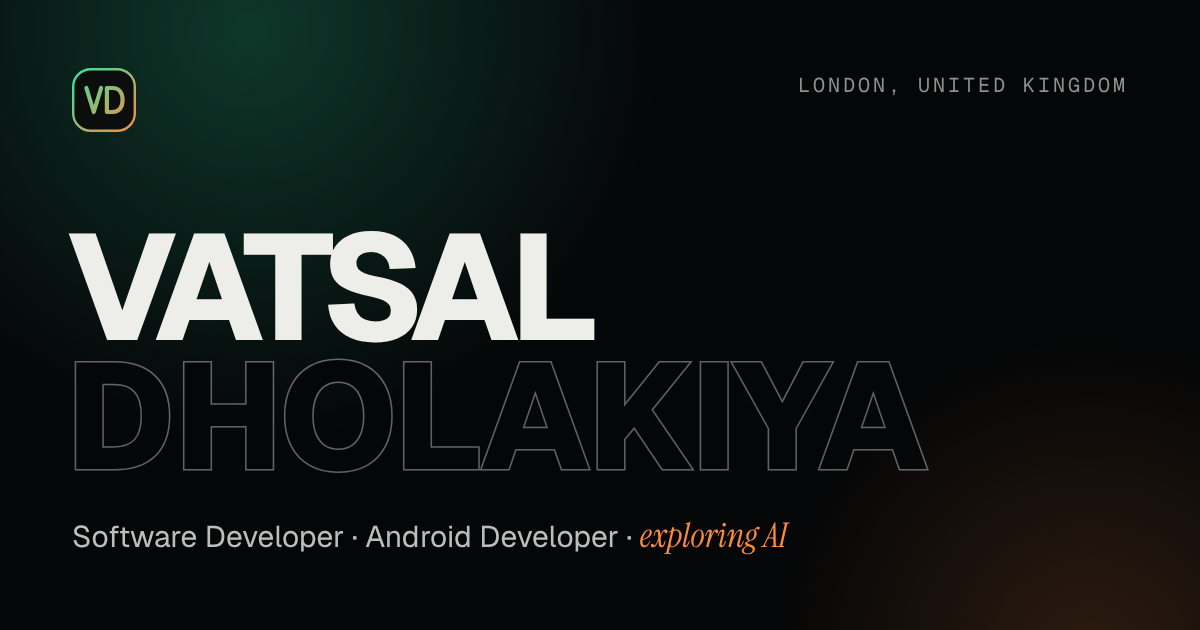
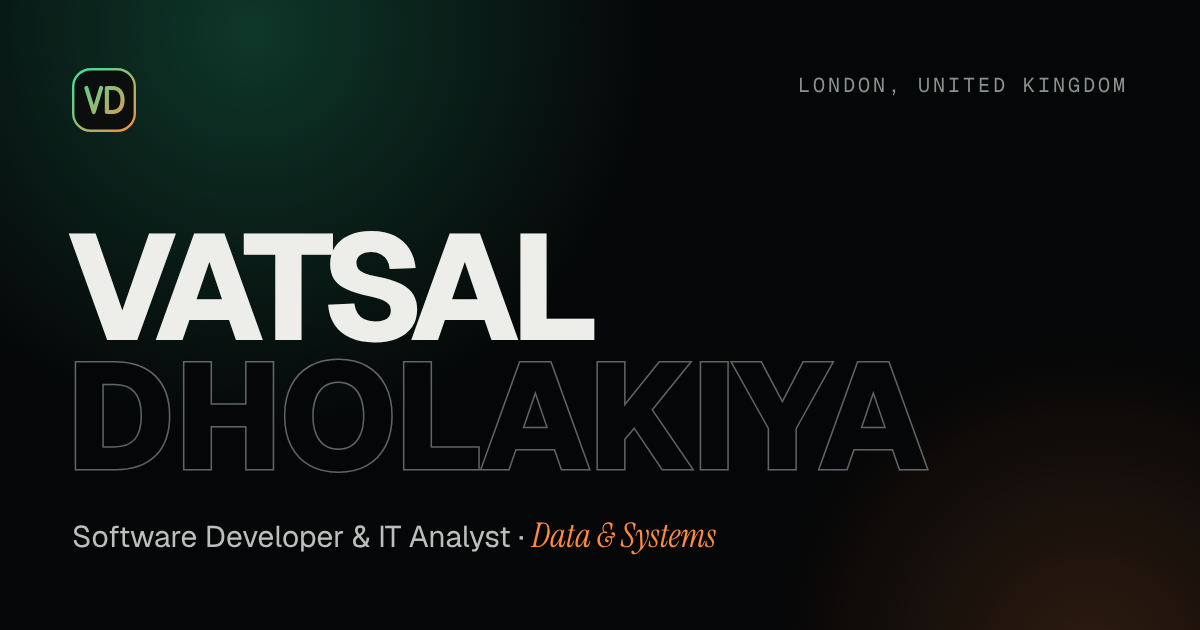
Match experience, titles and WhatsApp project figures to the latest CV
Claude-Session: https://claude.ai/code/session_01LKi39pbMocCTRNa2FPTGCk

Changed region(s): [[0.2775, 0.8143, 0.6475, 0.8746]]

diff --git a/src/data/content.ts b/src/data/content.ts
@@ -42,7 +42,9 @@ export interface Chapter {
   year: string
   title: string
   place: string
-  text: string
+  text?: string
+  /** Bullet points, shown under the text */
+  points?: string[]
   /** Optional highlighted badge, e.g. 'Distinction' */
   badge?: string
 }
@@ -110,11 +112,11 @@ export const site = {
   /** FILL IN: your live domain without a trailing slash, e.g. 'https://vatsaldholakiya.com'.
    *  Used for the canonical URL, social previews and sitemap.xml. Leave '' until you have one. */
   url: 'https://www.vatsaldholakiya.com',
-  title: 'Vatsal Dholakiya — Software Developer & Android Developer',
+  title: 'Vatsal Dholakiya — Software Developer & IT Analyst | Data & Systems',
   description:
-    'Vatsal Dholakiya is a London-based Software Developer and Android Developer who builds software that does real work, and is currently exploring Artificial Intelligence.',
+    'Vatsal Dholakiya is a London-based Software Developer and IT Analyst working across data and systems, with an MSc in Cloud Computing (Distinction).',
   ogImage: '/og-image.png',
-  ogImageAlt: 'Vatsal Dholakiya, Software Developer and Android Developer',
+  ogImageAlt: 'Vatsal Dholakiya, Software Developer and IT Analyst',
   locale: 'en_GB',
 }
 
@@ -124,8 +126,8 @@ export const person = {
   firstName: 'Vatsal',
   lastName: 'Dholakiya',
   initials: 'VD',
-  jobTitle: 'Software Developer',
-  roleLine: 'Software Developer · Android Developer · Exploring AI',
+  jobTitle: 'Software Developer & IT Analyst',
+  roleLine: 'Software Developer · IT Analyst · Data & Systems',
   location: 'London, United Kingdom',
   timeZone: 'Europe/London',
   links: {
@@ -188,7 +190,7 @@ export const films: Record<'orbit' | 'developer' | 'nextChapter', Film> = {
 /* ------------------------------------------------------------------ Hero */
 
 export const hero = {
-  kicker: 'Software Developer · Android Developer · London',
+  kicker: 'Software Developer & IT Analyst · Data & Systems',
   line: "I build software and Android apps that do real work — and I'm learning AI to build what comes next.",
   primaryCta: 'See my work',
   availability: 'Open to opportunities',
@@ -209,7 +211,7 @@ export const build = {
   /** Text inside the pieces dragged onto the screen */
   pieces: {
     button: 'Ship it',
-    stat: { value: '10,000+', label: 'Messages a day' },
+    stat: { value: '500+', label: 'Messages a day' },
     skills: ['Java', 'Android', 'SQL', 'Git'],
     chat: { title: 'AI · Learning', question: 'What should I learn next?', answer: 'Generative AI, step by step.' },
     appTitle: 'Orders',
@@ -222,8 +224,8 @@ export const build = {
 export const stats = {
   label: 'In numbers',
   items: [
-    { value: 4, suffix: '+', label: 'Years building software' },
-    { value: 10000, suffix: '+', label: 'WhatsApp messages sent a day by my automation tool' },
+    { value: 5, suffix: '+', label: 'Years building software' },
+    { value: 500, suffix: '+', label: 'WhatsApp messages a day handled by my automation tool' },
     { value: 5, label: 'Professional certifications' },
     { value: 563, label: 'Stack Overflow reputation', live: 'stackoverflow-reputation' },
     /** FILL IN: number of Android apps you shipped to Google Play — hidden while value is undefined */
@@ -239,8 +241,8 @@ export const about = {
   /** Words rendered in the serif italic accent */
   accentWords: ['busywork'],
   paragraphs: [
-    "I'm a Software Developer and Android Developer based in London. I built a WhatsApp automation tool that now sends more than 10,000 messages a day, and at CodeCreator Technologies I built PostFactory, a business card design app for Android.",
-    'I hold an MSc in Cloud Computing with Distinction from the University of East London. I care about clean code, clear communication and software that keeps working long after handover. Right now I am learning Generative AI and the ethics of AI.',
+    'Software developer with an MSc in Cloud Computing (Distinction), including artificial intelligence and machine learning, and a BSc in Information Technology.',
+    'Experienced in taking software from requirements to production and keeping it healthy after launch through testing, debugging and monitoring. Hands-on with Python, SQL, PostgreSQL, Git, Docker and Linux.',
   ],
 }
 
@@ -350,39 +352,62 @@ export const story = {
     {
       year: '2017',
       title: 'BSc Information Technology',
-      place: 'Ganpat University, Gujarat, India · 2017 – 2020',
-      text: 'Where it started: Java, Android Studio and the fundamentals of building apps. Graduated with a CGPA of 8.15.',
+      place: 'Ganpat University, India · Completed 2020',
+      text: 'Modules included System Analysis and Design, Databases, Computer Networks, Web Design and Android Development. Graduated with a CGPA of 8.15.',
     },
     {
       year: '2019',
-      title: 'Freelance Software Developer',
-      place: 'Self-employed, India',
-      text: 'Built a WhatsApp automation tool for small retailers. It now sends more than 10,000 messages a day.',
+      title: 'WhatsApp Automation & Data Extraction Tool',
+      place: 'Freelance · Java, Selenium, SQLite',
+      points: [
+        'Built solo a Java desktop tool using Selenium to scrape business and contact data from websites.',
+        'Stored scraped data in SQLite to send personalised bulk WhatsApp messages and track sent and failed messages.',
+        'Automated message scheduling, handling 500+ messages a day and cutting around 90% of manual work.',
+      ],
     },
     {
       year: '2020',
       title: 'Android Developer',
       place: 'CodeCreator Technologies, India · Aug 2020 – Nov 2022',
-      text: 'Native Android apps for small businesses, built in a team, including PostFactory, a business card design app.',
+      points: [
+        'Built and maintained native Android and desktop apps in Java, from client requirements to release.',
+        'Integrated REST APIs (JSON), Firebase and Google Sign-In, and managed Google Play Store releases.',
+        'Monitored live apps after launch and debugged user-reported production issues at their root cause.',
+      ],
     },
     {
       year: '2022',
       title: 'MSc Cloud Computing',
-      place: 'University of East London · Sep 2022 – Sep 2023',
-      text: 'Cloud platforms, security, and the fundamentals of AI and machine learning.',
+      place: 'University of East London, United Kingdom · 2022 – 2023',
+      text: 'Cloud architecture and services (AWS, Microsoft Azure), artificial intelligence and machine learning, distributed systems and virtualisation, network security, database systems.',
       badge: 'Distinction',
     },
     {
-      year: '2024',
+      year: '2023',
       title: 'Software Developer',
-      place: 'Made Tech IT Ltd, London · Oct 2024 – present',
-      text: 'Client software in Java and Python with PostgreSQL, REST APIs, Git and Docker, from the business problem to delivery and handover.',
+      place: 'Made Tech IT Ltd, UK · Nov 2023 – Sep 2024',
+      points: [
+        'Built client software solutions in Java, from requirements through testing to delivery and handover.',
+        'Designed PostgreSQL database structures and integrated REST APIs and third-party services.',
+        'Wrote structured, tested code, using Git for version control and Docker for consistent development on Linux.',
+      ],
+    },
+    {
+      year: '2024',
+      title: 'IT Analyst',
+      place: 'Made Tech IT Ltd, UK · Oct 2024 – Sep 2026',
+      points: [
+        'Analysed client business processes and requirements, translating them into clear technical specifications.',
+        'Queried and analysed data in PostgreSQL and SQL to support client reporting and decision-making.',
+        'Used AI tools to speed up analysis and documentation, while carefully verifying outputs before use.',
+        'Explained trade-offs and limitations clearly to clients, and documented systems for long-term maintenance.',
+      ],
     },
     {
       year: 'Now',
       title: 'Learning AI',
       place: 'Ongoing',
-      text: 'Learning Generative AI and the ethics of AI, one practical project at a time.',
+      text: 'Generative AI and ethical AI (ongoing study), including Building and Implementing Ethical AI with the Certified Institute for Technology and AI.',
     },
   ] as Chapter[],
   certificatesTitle: 'Certificates',
@@ -572,16 +597,17 @@ export const projects = {
     {
       id: 'whatsapp-automation',
       kind: 'Desktop application',
-      title: 'WhatsApp Business Automation',
+      title: 'WhatsApp Automation & Data Extraction Tool',
       tagline: 'Bulk and one-to-one messaging for small businesses',
       summary:
         'A desktop application for bulk or one-to-one WhatsApp messaging. The left column manages recipients and attachments, the right column holds the message composer and sending history, and the toolbar gives quick access to import, group management, filtering and reports. One large Send button starts a campaign, and every result is saved automatically to the sending log.',
       meta: [
         { label: 'Client', value: 'Small retail businesses, such as jewellery shops' },
-        { label: 'Type', value: 'Private client project' },
+        { label: 'Type', value: 'Freelance, built solo' },
         { label: 'Platform', value: 'Windows desktop' },
       ],
       features: [
+        'Scrapes business and contact data from websites with Selenium',
         'Bulk messaging with recipient management',
         'One-to-one messages, personalised with each customer’s name',
         'File attachments for images and documents',
@@ -592,13 +618,11 @@ export const projects = {
         'Automatic sending log with detailed records',
       ],
       impact: [
-        { value: '10,000+', label: 'Messages sent a day' },
-        { value: '99.8%', label: 'Delivery rate' },
-        { value: '90%', label: 'Less time spent on manual messaging' },
-        { value: '400%', label: 'Improvement in communication efficiency' },
+        { value: '500+', label: 'Messages a day' },
+        { value: '~90%', label: 'Manual work cut' },
       ],
       result:
-        'Deployed for small retailers, the system handles more than 10,000 messages a day with a 99.8% delivery rate, and cut manual messaging time by 90%.',
+        'Scraped data is stored in SQLite to send personalised bulk WhatsApp messages and track sent and failed messages. Automated scheduling handles 500+ messages a day and cuts around 90% of manual work.',
       tags: ['Java', 'NetBeans', 'Selenium', 'SQLite', 'MySQL', 'Firebase', 'REST APIs'],
       visual: 'desktop',
       images: [
@@ -751,7 +775,7 @@ export const contact = {
   label: 'Contact',
   heading: "Let's build what's next.",
   accentWord: 'next.',
-  line: 'Open to software development, Android and AI-focused roles. Based in London, open to relocation.',
+  line: 'Open to software development, IT analyst and data roles. Based in London, open to relocate anywhere.',
   copy: 'Copy',
   copied: 'Copied!',
   copyAria: 'Copy email address',
@@ -777,7 +801,7 @@ export const terminal = {
   welcome: 'Type help to see commands. Esc closes.',
   commands: {
     help: 'Commands: whoami, skills, learning, contact, clear',
-    whoami: 'Vatsal Dholakiya — Software Developer & Android Developer, London. Currently exploring AI.',
+    whoami: 'Vatsal Dholakiya — Software Developer & IT Analyst | Data & Systems, London.',
     skills: 'Java · Python · SQL · Android SDK · REST APIs · Selenium · Git · Docker',
     learning: 'Learning now: Generative AI and Ethics of AI — hands-on, one project at a time.',
     contact: 'vatsal.dholakiya2000@gmail.com',

diff --git a/src/components/sections/Story.tsx b/src/components/sections/Story.tsx
@@ -126,7 +126,17 @@ export function Story() {
                         {c.place}
                       </p>
                       <h3 className="mt-3 text-[clamp(1.5rem,2.4vw,2rem)] leading-[1.1] font-bold">{c.title}</h3>
-                      <p className="mt-3 text-mist">{c.text}</p>
+                      {c.text && <p className="mt-3 text-mist">{c.text}</p>}
+                      {c.points && (
+                        <ul className="mt-3 space-y-2 text-[0.9375rem] leading-snug text-mist">
+                          {c.points.map((point) => (
+                            <li key={point} className="flex gap-2.5">
+                              <span aria-hidden="true" className="mt-[0.55em] h-1 w-1 shrink-0 rounded-full bg-emerald" />
+                              {point}
+                            </li>
+                          ))}
+                        </ul>
+                      )}
                       {c.badge && (
                         <span className="mt-5 inline-flex rounded-full border border-emerald/30 bg-emerald/10 px-3 py-1 font-mono text-xs tracking-[0.08em] text-emerald uppercase">
                           {c.badge}

diff --git a/tests/site.spec.ts b/tests/site.spec.ts
@@ -159,7 +159,7 @@ test.describe('Projects and data', () => {
   test('projects show the PostFactory and WhatsApp case studies with their features', async ({ page }) => {
     await page.goto('/#projects')
     await expect(page.locator('#postfactory-title')).toHaveText('PostFactory')
-    await expect(page.locator('#whatsapp-automation-title')).toHaveText('WhatsApp Business Automation')
+    await expect(page.locator('#whatsapp-automation-title')).toHaveText('WhatsApp Automation & Data Extraction Tool')
     await expect(page.locator('#projects li', { hasText: 'Number filter' })).toHaveCount(1)
   })
 
@@ -217,7 +217,7 @@ test.describe('Projects and data', () => {
     await expect(page.locator('#terminal-input')).toBeFocused()
     await page.keyboard.type('whoami')
     await page.keyboard.press('Enter')
-    await expect(terminal).toContainText('Software Developer & Android Developer')
+    await expect(terminal).toContainText('Software Developer & IT Analyst')
     await page.keyboard.type('nope')
     await page.keyboard.press('Enter')
     await expect(terminal).toContainText('Command not found')
